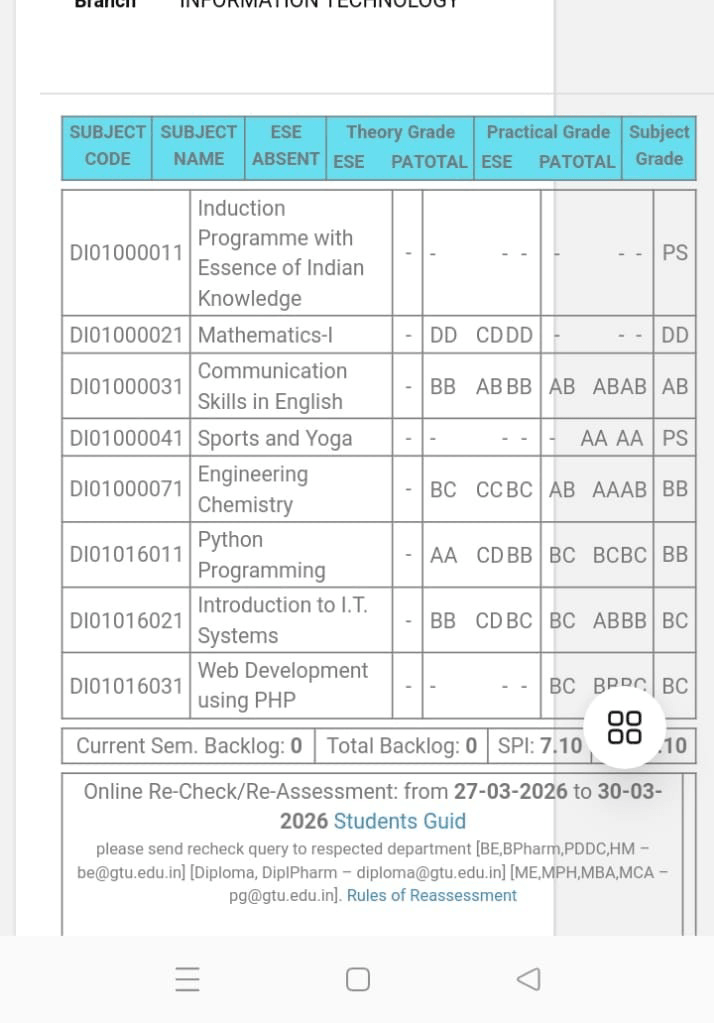
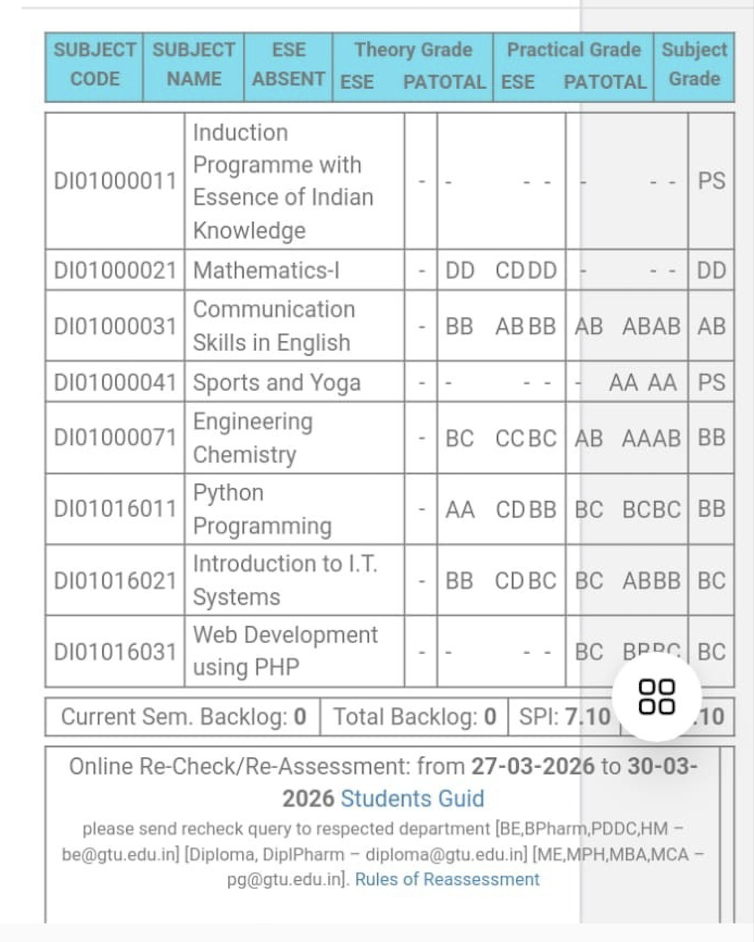
Replace result-1.jpeg with result-1.png (user pre-cropped) Update impact page reference; full build verified 46/46 pages clean

diff --git a/app/impact/page.tsx b/app/impact/page.tsx
@@ -121,7 +121,7 @@ export default function ImpactPage() {
           {/* Two result cards side by side */}
           <div className="grid sm:grid-cols-2 gap-6 max-w-2xl mx-auto mb-10">
             {[
-              { src: "/images/result-1.jpeg", label: "Meera", alt: "Diploma semester result — Student 1" },
+              { src: "/images/result-1.png", label: "Meera", alt: "Diploma semester result — Student 1" },
               { src: "/images/result-3.png", label: "Asha",  alt: "Diploma semester result — Student 2" },
             ].map((r) => (
               <div key={r.label} className="rounded-2xl overflow-hidden shadow-xl border border-gray-200 bg-white">
